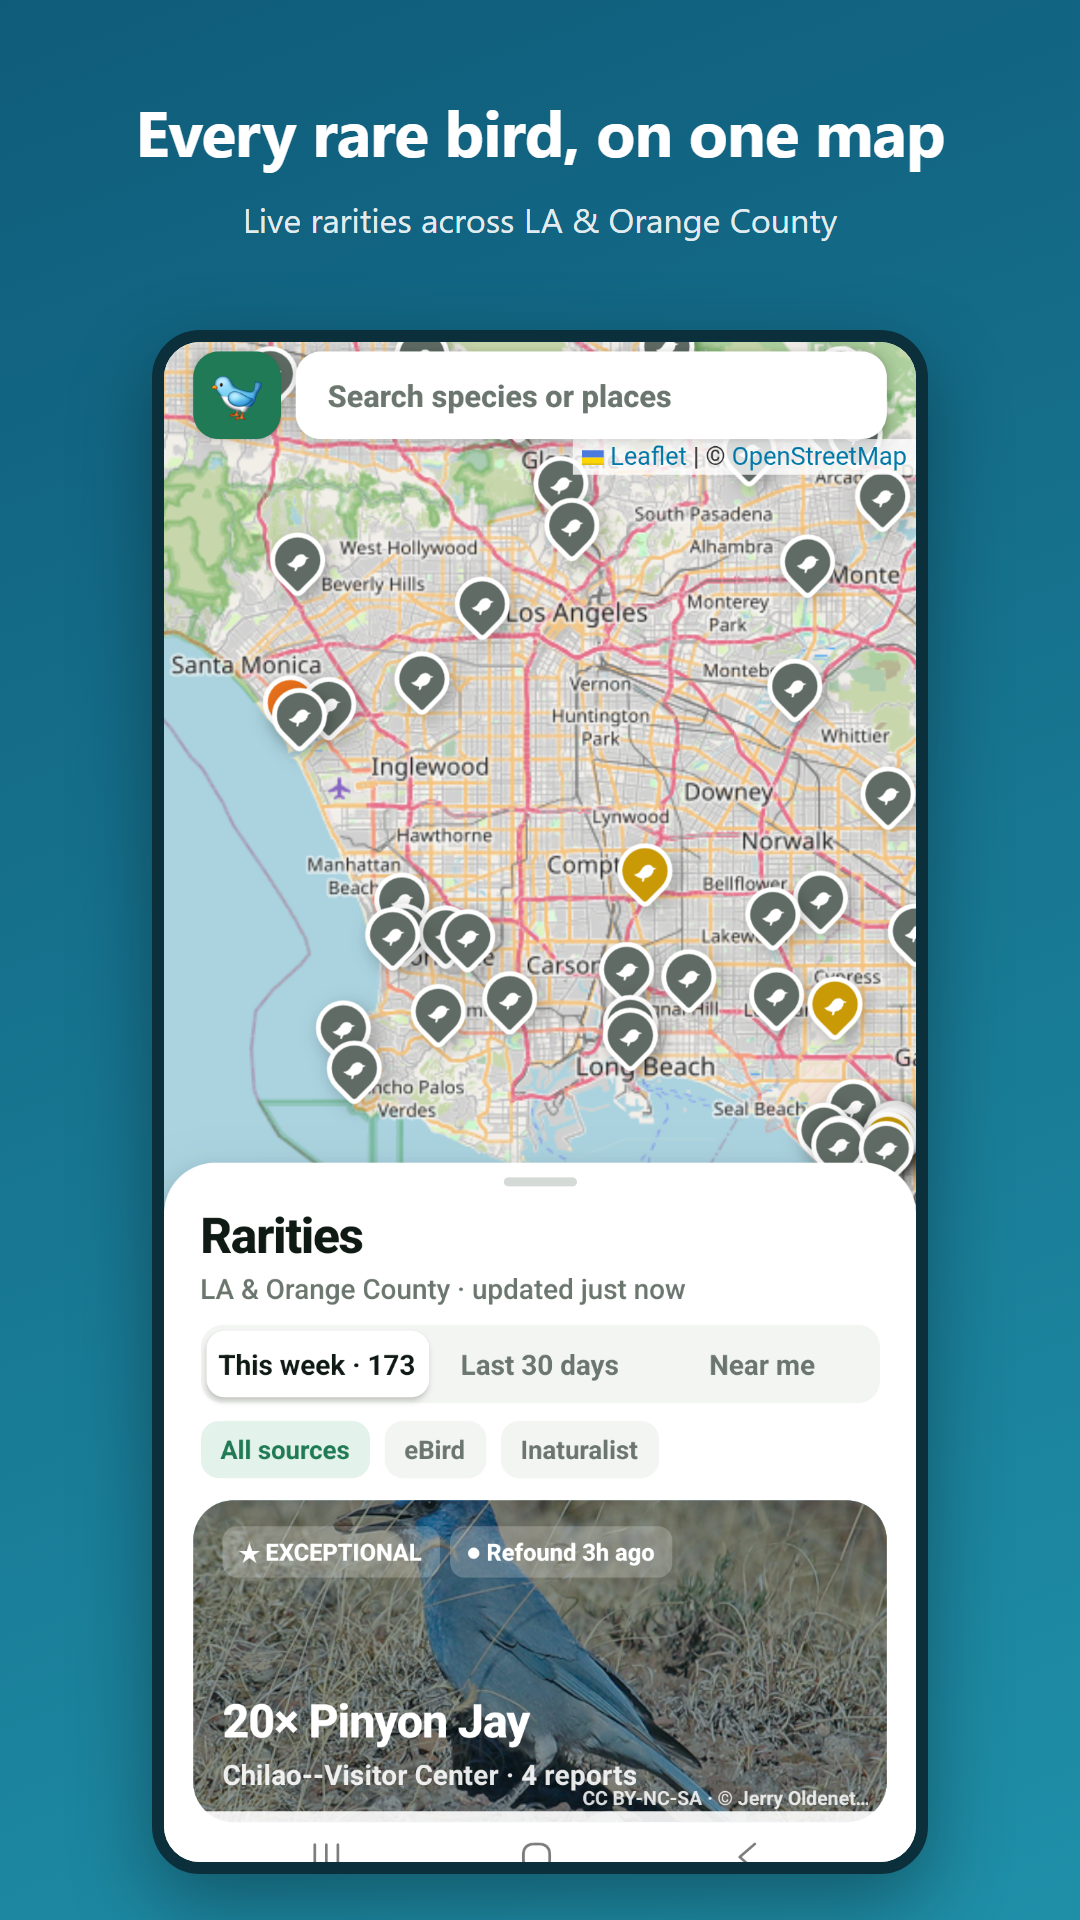
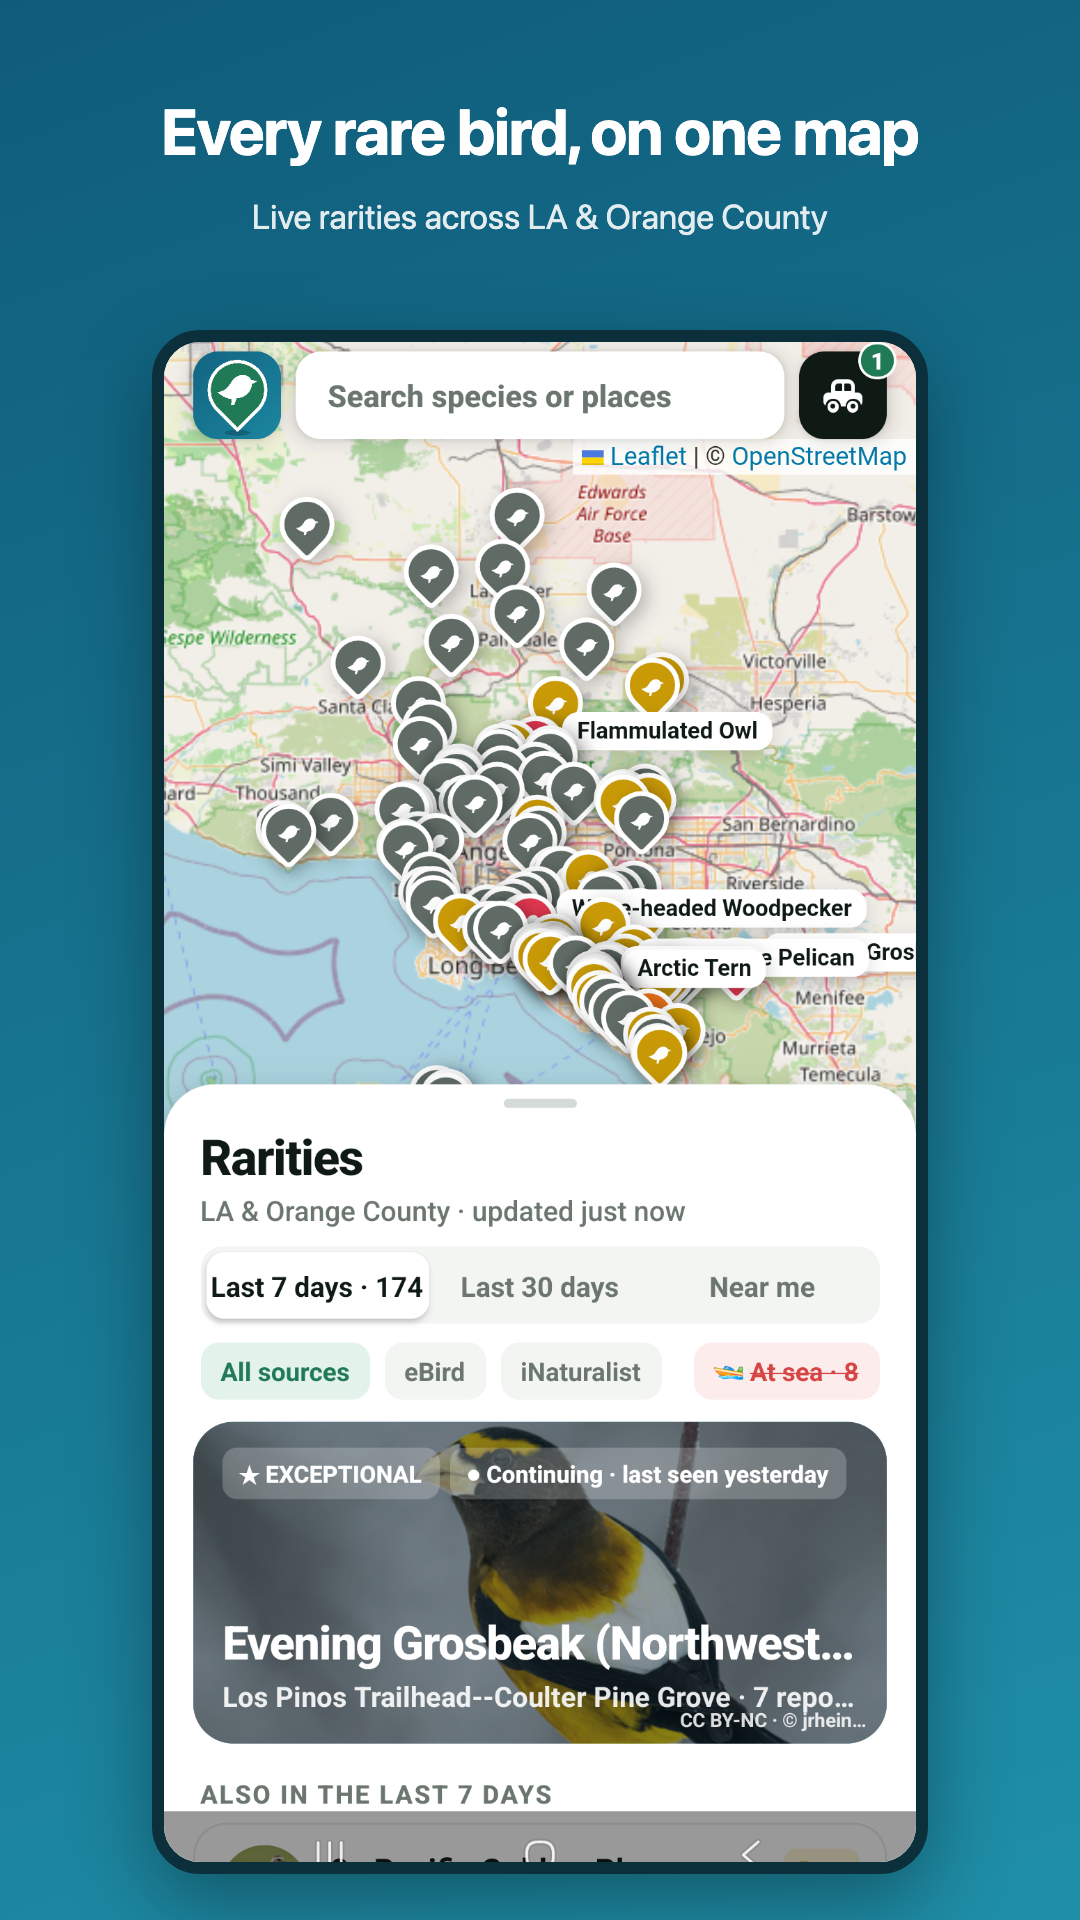
Play Store screenshots retaken on 1.5.1, adding the trip screen; 1.5.1 live on Play

diff --git a/README.MD b/README.MD
@@ -418,7 +418,7 @@ Artwork for the store listings. Each graphic is a plain HTML page sized to the e
 | `icons/app-store-header.html` → `.png`, `.mp4` | 3840×1646 | **App Store product page header** (2026-10-07; the `.mp4` is the one in use on the listing). Tagline "Every rare bird, on one map / Live rarities across LA & Orange County", the green pin, two framed phones (`backend/src/site/shots/home.jpg`, `detail.jpg`). The key art sits inside Apple's centered 1644×658 safe area, so it survives cropping. The `.mp4` is a 10 s loop at 30 fps: the pin shrinks away, a bird flies in, drops it with a bounce and a GPS pulse, and flies off. Its first frame matches the still |
 | `icons/app-store-search-result.html` → `.png` | 3840×2560 | **App Store search results asset** (2026-10-07; the `.png` is in use on the listing), per Apple's [asset best practices](https://developer.apple.com/app-store/asset-best-practices/): states what the app does ("Rare birds near you, live / Fresh reports across LA & Orange County, ranked by rarity") and shows the real UI (map, list and trip screens from `AppStoreScreenshots/iPhone/`). Key art inside the centered ~2160×1024 safe area measured from Apple's Photoshop template; `?guides` shows it. No prices, URLs, awards or other-platform logos |
 | `icons/featured-graphic.html` | 1024×500 | Google Play feature graphic |
-| `icons/screenshots/frame.html` → `1-map.png` … `4-about.png` | 1080×1920 | Google Play phone screenshots: a raw capture (`raw*.png`) inside a phone frame with a headline; `_all.png` shows them side by side |
+| `icons/screenshots/frame.html` → `1-map.png` … `5-about.png` | 1080×1920 | Google Play phone screenshots: a raw capture (`raw*.png`, `adb exec-out screencap -p` from the S25 Ultra at 1080×2340) inside a phone frame with a headline; `_all.png` shows them side by side. Retaken on 1.5.1 (2026-10-12): map, list, bird, trip, about. Render each with headless Chrome at `--window-size=1080,1920`, passing `?t=headline&s=subtitle&i=rawN-name.png` |
 | `AppStoreScreenshots/iPhone/` | 1206×2622 | App Store iPhone 6.3" screenshots from the iPhone 18 Pro simulator: map, bird, list, trip, about |
 | `AppStoreScreenshots/iPad/` | 2064×2752 | App Store iPad 13" screenshots from the iPad Pro 13" simulator: map, bird, trip, about. The iPadOS "Expo Go" status-bar label and the window-corner arc are edited out |
 | `icons/1-pin.svg` … `4b-pin-hero-green.svg`, `preview.html` | | App icon concepts; `preview.html` compares them. The shipped icon is in `mobile/assets/` |
@@ -644,7 +644,7 @@ Comments are fetched on demand and never stored in the local database.
   - Test on an Android phone before uploading: at-sea switch and labels, a notification tap with the app open, in the background and closed
 - [x] **Google Play production access** applied for (2026-10-10), after closed testing via a tester service; survey answered with that service's suggested answers
 - [x] Production access granted (2026-10-11)
-- [ ] Release 1.5.1 to Production in Play Console (built with the Last 7 days fix; first Android release since the FCM V1 key was added)
+- [x] Release 1.5.1 to Production in Play Console (live by 2026-10-12) (built with the Last 7 days fix; first Android release since the FCM V1 key was added)
 - [x] iOS 1.5.1 build 6 (EAS b994bcbd) uploaded and submitted to App Review (2026-10-12), set to release automatically once approved
 - [ ] iOS 1.5.1 live on the App Store; then add the date to the guide's What's new
 
